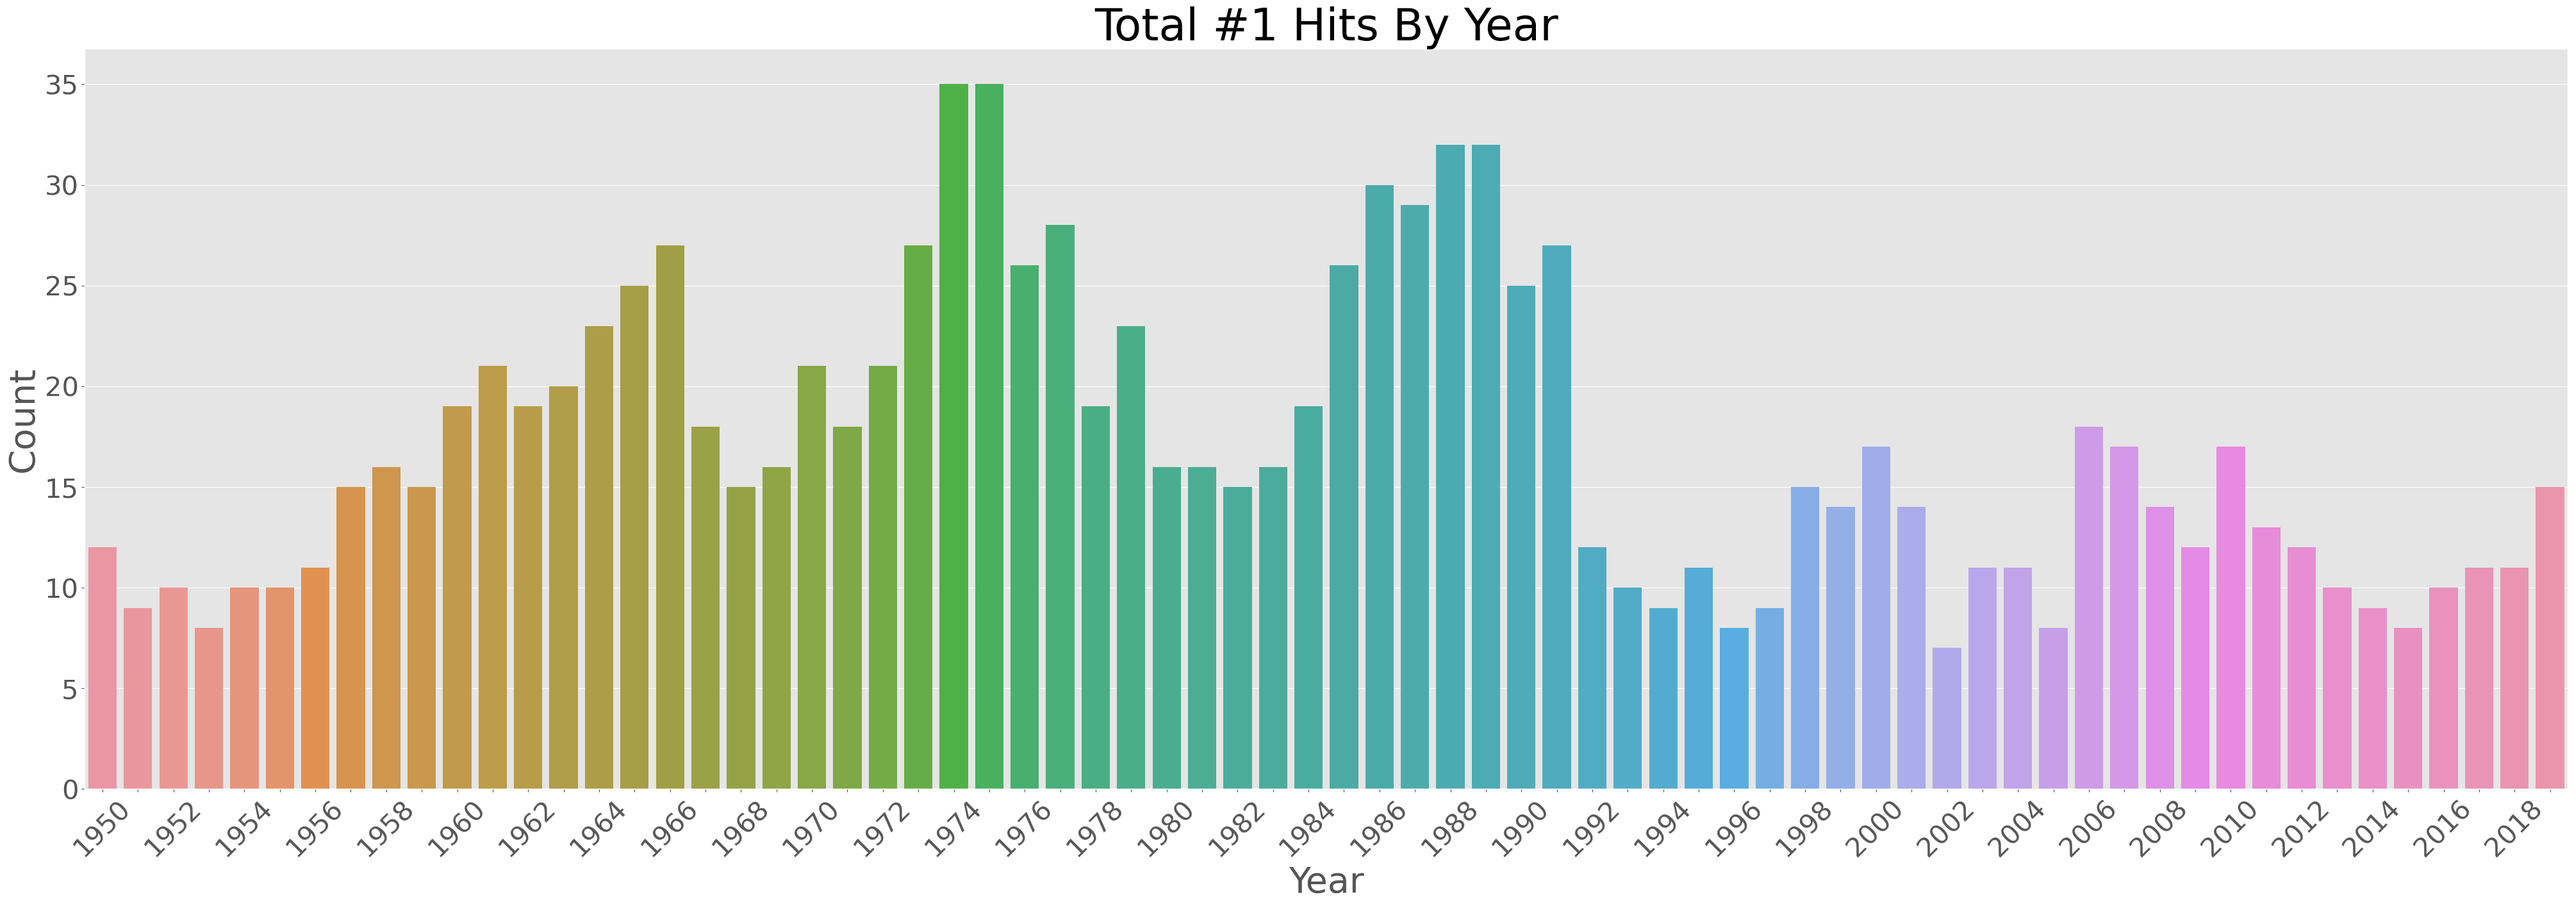
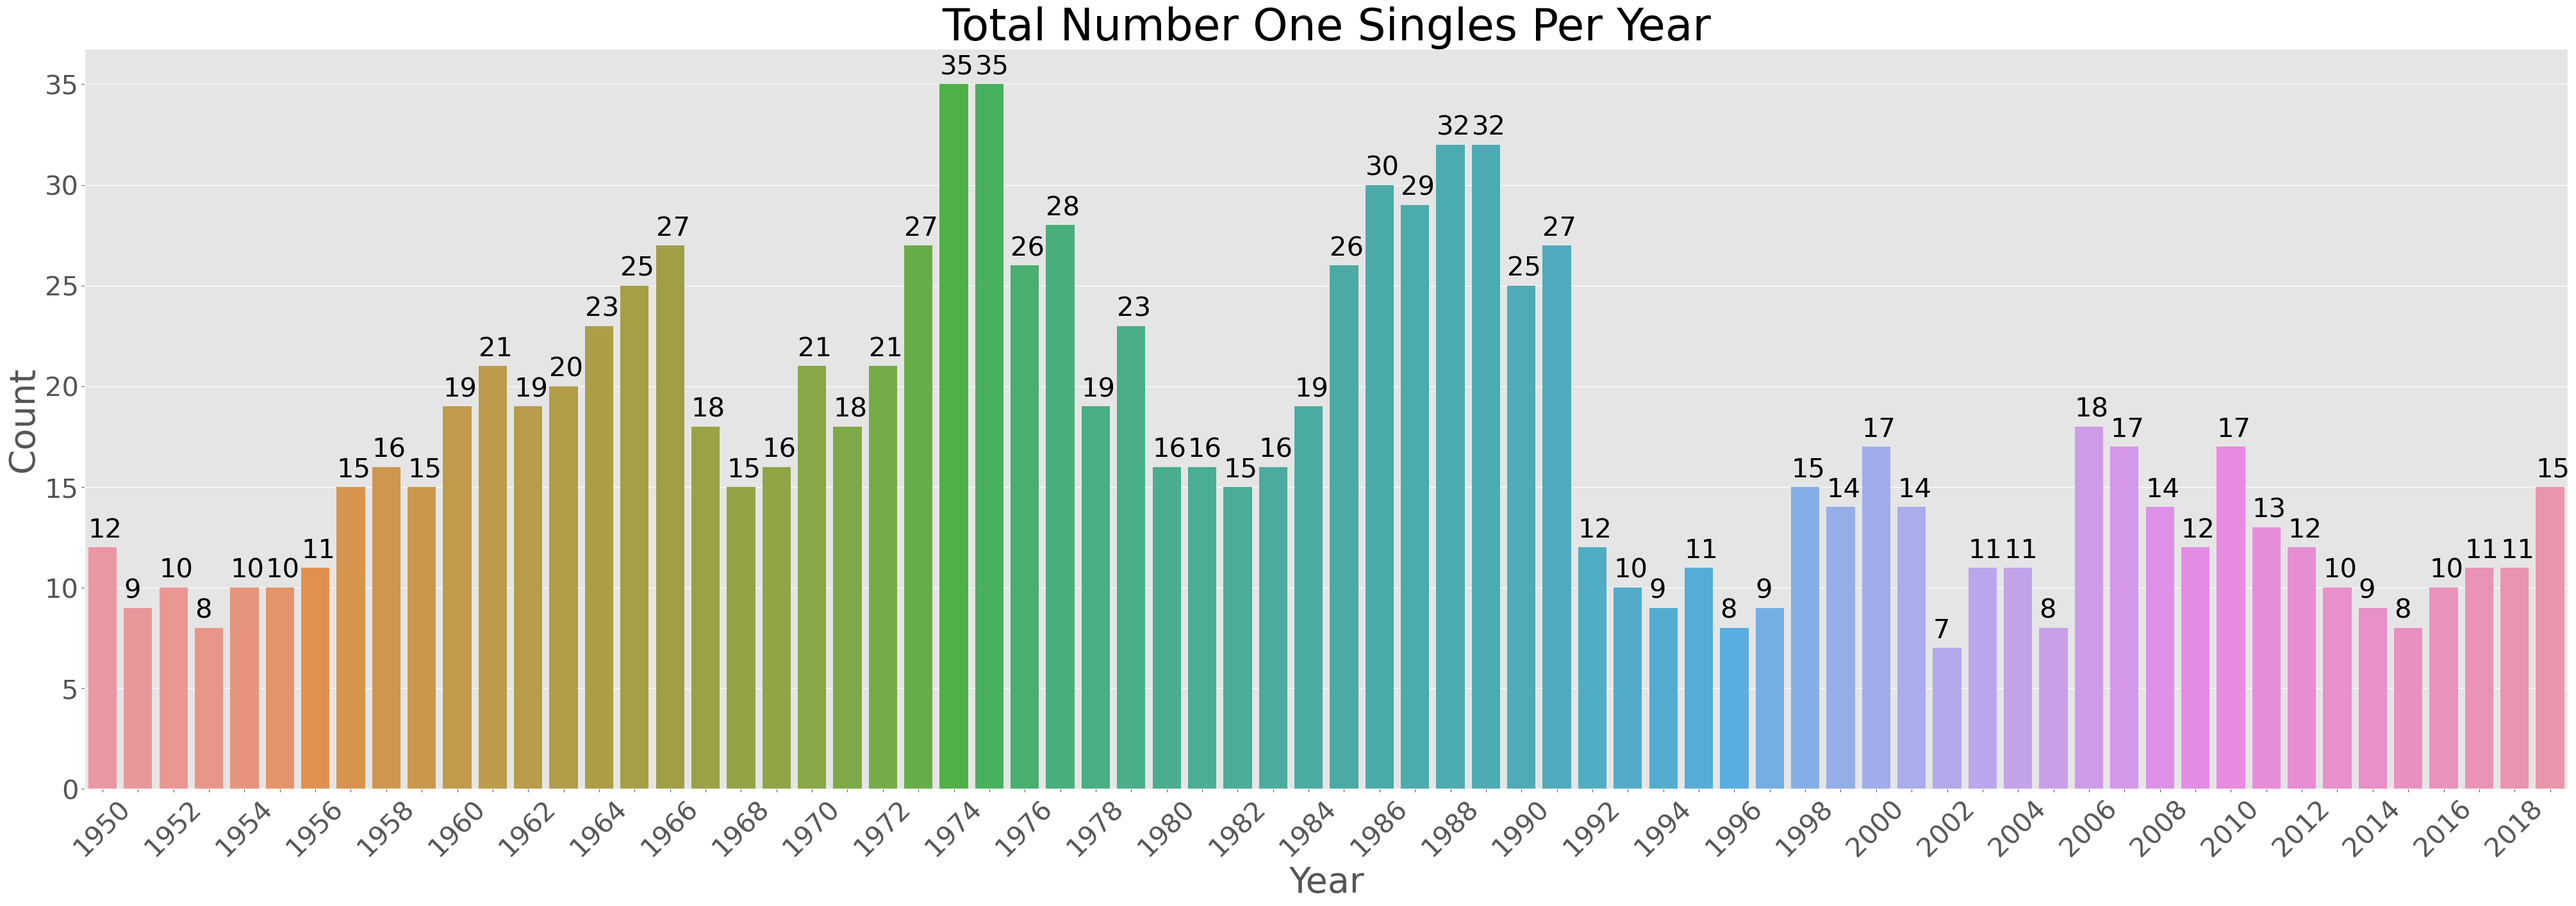
added data dictionary to write up, fixed the first two plots

diff --git a/scripts/visualize.py b/scripts/visualize.py
@@ -20,16 +20,20 @@ songs = pd.read_csv("C:/Users/deand/Documents/Repositories/Music-Analysis/data/p
 # 11. Line plots: accompany heatmaps
 
 # Plot 1
-# sns.countplot(x = 'decade', data=songs)
-# plt.xlabel('Decade')
-# plt.ylabel('Count')
-# plt.title("Total #1 Hits By Decade")
-# plt.savefig("C:/Users/deand/Documents/Repositories/Music-Analysis/reports/figures/number-one-counts-decade.png",
-# 			bbox_inches='tight')
+plt.figure(figsize=(10,5))
+ax = sns.countplot(x = 'decade', data=songs)
+plt.xlabel('Decade')
+plt.ylabel('Count')
+plt.title("Total Number One Singles Per Decade")
+for p in ax.patches:
+    ax.annotate('{}'.format(p.get_height()), (p.get_x()+0.27, p.get_height()+1))
+
+plt.savefig("C:/Users/deand/Documents/Repositories/Music-Analysis/reports/figures/static/number-one-counts-decade.png",
+			bbox_inches='tight')
 
 # # Plot 2
-# fig, ax = plt.subplots(figsize=(50,15))
-# sns.countplot(x='year', data=songs)
+# plt.figure(figsize=(50,15))
+# ax = sns.countplot(x='year', data=songs)
 
 # e = 2
 # for n,label in enumerate(ax.xaxis.get_ticklabels()):
@@ -40,8 +44,11 @@ songs = pd.read_csv("C:/Users/deand/Documents/Repositories/Music-Analysis/data/p
 # plt.ylabel('Count', fontsize=40)
 # plt.xticks(rotation=45, fontsize=30)
 # plt.yticks(fontsize=30)
-# plt.title("Total #1 Hits By Year", fontsize=50)
-# plt.savefig("C:/Users/deand/Documents/Repositories/Music-Analysis/reports/figures/number-one-counts-year.png",
+# plt.title("Total Number One Singles Per Year", fontsize=50)
+# for p in ax.patches:
+#     ax.annotate('{}'.format(p.get_height()), (p.get_x(), p.get_height()+0.5), fontsize=30)
+
+# plt.savefig("C:/Users/deand/Documents/Repositories/Music-Analysis/reports/figures/static/number-one-counts-year.png",
 # 			bbox_inches='tight')
 
 # Plot 3
@@ -137,33 +144,33 @@ cols = ['danceability', 'energy', 'key', 'loudness', 'speechiness', 'acousticnes
 # Plot 8, 9 - Don't need these
 
 # Plot 10 & 11
-danceability = pd.read_csv("C:/Users/deand/Documents/Repositories/Music-Analysis/data/processed/stat-output/dunn_danceability.csv", index_col=0)
-energy = pd.read_csv("C:/Users/deand/Documents/Repositories/Music-Analysis/data/processed/stat-output/dunn_energy.csv", index_col=0)
-valence = pd.read_csv("C:/Users/deand/Documents/Repositories/Music-Analysis/data/processed/stat-output/dunn_valence.csv", index_col=0)
+# danceability = pd.read_csv("C:/Users/deand/Documents/Repositories/Music-Analysis/data/processed/stat-output/dunn_danceability.csv", index_col=0)
+# energy = pd.read_csv("C:/Users/deand/Documents/Repositories/Music-Analysis/data/processed/stat-output/dunn_energy.csv", index_col=0)
+# valence = pd.read_csv("C:/Users/deand/Documents/Repositories/Music-Analysis/data/processed/stat-output/dunn_valence.csv", index_col=0)
 
-sns.set_style(style='white')
+# sns.set_style(style='white')
 
-dfs = [danceability, energy, valence]
-titles = ['danceability', 'energy', 'valence']
-fig = plt.figure(figsize=(15,15))
-fig.subplots_adjust(hspace=0.2, wspace=0.2)
+# dfs = [danceability, energy, valence]
+# titles = ['danceability', 'energy', 'valence']
+# fig = plt.figure(figsize=(15,15))
+# fig.subplots_adjust(hspace=0.2, wspace=0.2)
 
-for i,title,df in zip(range(1,4), titles, dfs):
-    ax = fig.add_subplot(2, 3, i)
-    mask = np.zeros_like(df, dtype=np.bool)
-    mask[np.triu_indices_from(mask)] = True
+# for i,title,df in zip(range(1,4), titles, dfs):
+#     ax = fig.add_subplot(2, 3, i)
+#     mask = np.zeros_like(df, dtype=np.bool)
+#     mask[np.triu_indices_from(mask)] = True
     
-    sns.heatmap(df, vmin=0, vmax=0.05, mask=mask, fmt='.1g', annot=True, cbar=False, square=True)
-    ax.set_title(f"{title.capitalize()}: Dunn's Test Results")
+#     sns.heatmap(df, vmin=0, vmax=0.05, mask=mask, fmt='.1g', annot=True, cbar=False, square=True)
+#     ax.set_title(f"{title.capitalize()}: Dunn's Test Results")
 
-sns.set_style(style='darkgrid')
-for i,title,c in zip(range(4,7), titles, colors):
-    ax = fig.add_subplot(2, 3, i)
-    plt.plot(songs.groupby('decade').mean()[title], marker="o", c=c)
-    ax.set_ylim((0.3,0.8))
-    ax.set_xlabel("Decade")
-    ax.set_ylabel(f"Mean {title.capitalize()}")
-    ax.set_title(f"Mean {title.capitalize()} by Decade")
+# sns.set_style(style='darkgrid')
+# for i,title,c in zip(range(4,7), titles, colors):
+#     ax = fig.add_subplot(2, 3, i)
+#     plt.plot(songs.groupby('decade').mean()[title], marker="o", c=c)
+#     ax.set_ylim((0.3,0.8))
+#     ax.set_xlabel("Decade")
+#     ax.set_ylabel(f"Mean {title.capitalize()}")
+#     ax.set_title(f"Mean {title.capitalize()} by Decade")
 
-plt.savefig("C:/Users/deand/Documents/Repositories/Music-Analysis/reports/figures/test-result-plots.png",
-			bbox_inches='tight')
+# plt.savefig("C:/Users/deand/Documents/Repositories/Music-Analysis/reports/figures/static/test-result-plots.png",
+# 			bbox_inches='tight')

diff --git a/reports/project-writeup.md b/reports/project-writeup.md
@@ -4,10 +4,15 @@
 
 <center><span>Photo by <a href="https://unsplash.com/@mirianaa_?utm_source=unsplash&amp;utm_medium=referral&amp;utm_content=creditCopyText">Miriana Dorobanțu</a> on <a href="https://unsplash.com/s/photos/records?utm_source=unsplash&amp;utm_medium=referral&amp;utm_content=creditCopyText">Unsplash</a></span></center>
 
-
+## Introduction
+<p></p>
+There is no doubt that music has changed drastically over the past few decades. Great artists of the past are still highly regarded and have gone on to inspire other great artists in recent history. Several of my favorite musicians were pioneering music long before I was born, and have inspired some of my favorite modern musicians. This made me wonder about how music styles change over time, and if there are certain commonalites between hit songs from each decade.
 <p></p>
 
-For this project, I perform an exploratory anlysis on singles that went number one on the Billboard Hot 100 Chart from the 1950s to present. I focused my analysis on answering the following questions:
+### Goals
+<p></p>
+In this project, I perform an exploratory anlysis on singles that went number one on the Billboard Hot 100 Chart from the 1950s to present. I focused my analysis on answering the following questions:
+<p></p>
 
 * Which decade had the most number one singles?
 
@@ -22,6 +27,37 @@ For this project, I perform an exploratory anlysis on singles that went number o
 * Are genres consistent among number ones? Do all songs have similar genres?
 
 * Are songs in each decade distinct? Specifically, are songs in each decade statistically different than the others?
+
+## Data
+To find which singles went number one in each decade on the Billboard Hot 100 Chart, I went to the Wikipedia page for each decade's chart. From there, I wrote a script to scrape the information from the article and write it to a csv.
+
+Then, I used the data collection pipeline I wrote for my app Friendshipify to request the song metadata and [audio features from the Spotify API](https://developer.spotify.com/documentation/web-api/reference/tracks/get-audio-features/). I also used the feature extraction pipeline from Friendshipify to extract latent features from each song's preview. The final dataset contained the following features:
+
+| Features | Description |
+|---------|-------------|
+|danceability| Danceability describes how suitable a track is for dancing based on a combination of musical elements including tempo, rhythm stability, beat strength, and overall regularity. A value of 0.0 is least danceable and 1.0 is most danceable.|	
+|energy	| Energy is a measure from 0.0 to 1.0 and represents a perceptual measure of intensity and activity. Typically, energetic tracks feel fast, loud, and noisy.|
+|key | The estimated overall key of the track. Integers map to pitches using standard Pitch Class notation . E.g. 0 = C, 1 = C♯/D♭, 2 = D, and so on. If no key was detected, the value is -1.|
+|loudness | The overall loudness of a track in decibels (dB). Loudness values are averaged across the entire track and are useful for comparing relative loudness of tracks. Loudness is the quality of a sound that is the primary psychological correlate of physical strength (amplitude). Values typical range between -60 and 0 db.|	
+|speechiness |Speechiness detects the presence of spoken words in a track. The more exclusively speech-like the recording (e.g. talk show, audio book, poetry), the closer to 1.0 the attribute value. Values above 0.66 describe tracks that are probably made entirely of spoken words. Values between 0.33 and 0.66 describe tracks that may contain both music and speech, either in sections or layered, including such cases as rap music. Values below 0.33 most likely represent music and other non-speech-like tracks. |
+|acousticness |A confidence measure from 0.0 to 1.0 of whether the track is acoustic. 1.0 represents high confidence the track is acoustic. |
+|instrumentalness |Predicts whether a track contains no vocals. “Ooh” and “aah” sounds are treated as instrumental in this context. Rap or spoken word tracks are clearly “vocal”. The closer the instrumentalness value is to 1.0, the greater likelihood the track contains no vocal content. Values above 0.5 are intended to represent instrumental tracks, but confidence is higher as the value approaches 1.0. |
+|liveness| Detects the presence of an audience in the recording. Higher liveness values represent an increased probability that the track was performed live. A value above 0.8 provides strong likelihood that the track is live.|	
+|valence| A measure from 0.0 to 1.0 describing the musical positiveness conveyed by a track. Tracks with high valence sound more positive (e.g. happy, cheerful, euphoric), while tracks with low valence sound more negative (e.g. sad, depressed, angry).|	
+|tempo | The overall estimated tempo of a track in beats per minute (BPM). In musical terminology, tempo is the speed or pace of a given piece and derives directly from the average beat duration. |
+|zero_crossing_rate |	The zero-crossing rate is the rate of sign-changes along a signal, i.e., the rate at which the signal changes from positive to zero to negative or from negative to zero to positive.|
+|duration_ms| The duration of the song in milliseconds. |
+|genres	| A list of genres assigned by Spotify.|
+|year | The year the song was released. |
+<p></p>
+
+## Analysis
+
+### 1. Which decade had the most number one singles?
+
+<img style="float: right;" src="figures\static\number-one-counts-decade.png">
+
+I expected more recent decades to have the most number one singles due to the amount of music diversity there is. However, it appears the 1970s had the most number one singles. The histogram above also shows an increasing trend in the amount of number one single from the 50s through the 70s. The amount of number one singles first starts in decrease in the 1980s, and continues this decreasing trend until today.
 
 
 
